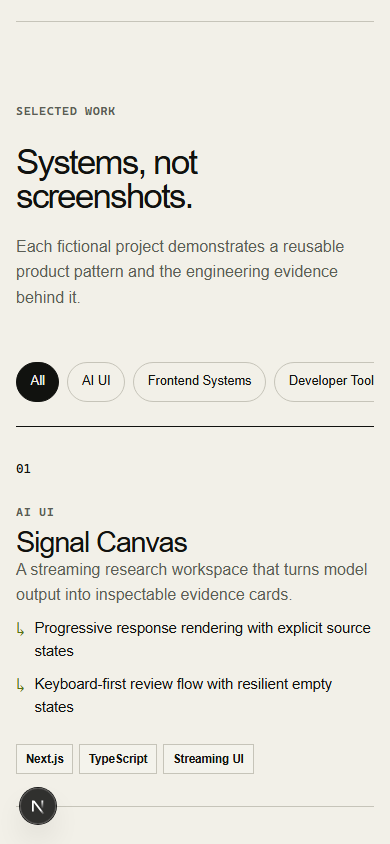
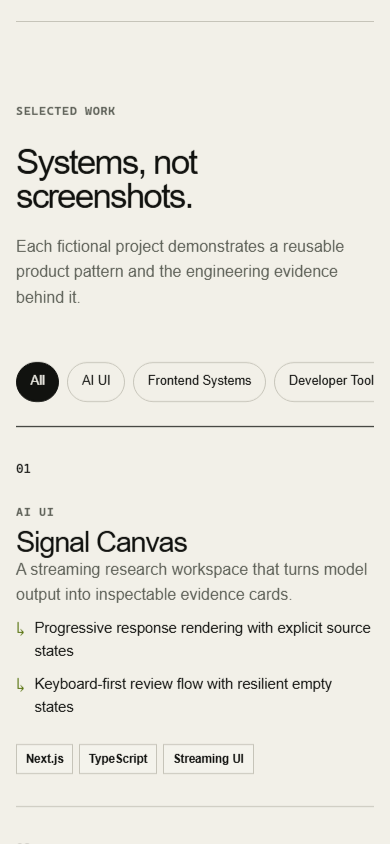
fix: enforce reusable content contract

diff --git a/tests/portfolio-schema.test.ts b/tests/portfolio-schema.test.ts
@@ -1,6 +1,9 @@
 import { describe, expect, it } from "vitest";
 import { demoContent } from "@/content/demo-content";
-import { validatePortfolioContent } from "@/lib/portfolio-schema";
+import {
+  assertValidPortfolioContent,
+  validatePortfolioContent,
+} from "@/lib/portfolio-schema";
 
 describe("validatePortfolioContent", () => {
   it("accepts the complete fictional demo content", () => {
@@ -12,6 +15,14 @@ describe("validatePortfolioContent", () => {
     expect(
       validatePortfolioContent({ ...demoContent, email: invalidEmail }),
     ).toContain("email must use example.com");
+  });
+
+  it("throws before composition when content is invalid", () => {
+    const invalidEmail = ["private", "example.net"].join("@");
+
+    expect(() =>
+      assertValidPortfolioContent({ ...demoContent, email: invalidEmail }),
+    ).toThrow("Portfolio content is invalid: email must use example.com");
   });
 
   it.each(["title", "summary", "stack", "category", "highlights"])(

diff --git a/tests/render.test.tsx b/tests/render.test.tsx
@@ -1,6 +1,7 @@
 import { fireEvent, render, screen } from "@testing-library/react";
 import { describe, expect, it } from "vitest";
 import Home from "@/app/page";
+import { SiteHeader } from "@/components/portfolio/site-header";
 
 describe("portfolio home", () => {
   it("renders the fictional profile with semantic project articles", () => {
@@ -36,5 +37,13 @@ describe("portfolio home", () => {
       expect(headingId).toBeTruthy();
       expect(container.querySelector(`#${headingId}`)).toBeInTheDocument();
     }
+  });
+
+  it("derives the wordmark from the configured display name", () => {
+    render(<SiteHeader displayName="Jordan Lee" />);
+
+    expect(screen.getByRole("link", { name: "Jordan Lee, home" })).toHaveTextContent(
+      "JL/PF",
+    );
   });
 });

diff --git a/components/portfolio/site-header.tsx b/components/portfolio/site-header.tsx
@@ -1,8 +1,15 @@
 export function SiteHeader({ displayName }: { displayName: string }) {
+  const initials = displayName
+    .trim()
+    .split(/\s+/)
+    .slice(0, 2)
+    .map((part) => part.at(0)?.toUpperCase())
+    .join("") || "PF";
+
   return (
     <header className="site-header">
       <a className="wordmark" href="#main-content" aria-label={`${displayName}, home`}>
-        AM<span aria-hidden="true">/</span>25
+        {initials}<span aria-hidden="true">/</span>PF
       </a>
       <nav aria-label="Primary navigation">
         <a href="#work">Work</a><a href="#about">About</a>

diff --git a/app/page.tsx b/app/page.tsx
@@ -6,6 +6,9 @@ import { ProjectGrid } from "@/components/portfolio/project-grid";
 import { SiteHeader } from "@/components/portfolio/site-header";
 import { Reveal } from "@/components/ui/reveal";
 import { demoContent } from "@/content/demo-content";
+import { assertValidPortfolioContent } from "@/lib/portfolio-schema";
+
+assertValidPortfolioContent(demoContent);
 
 export default function Home() {
   return (

diff --git a/lib/portfolio-schema.ts b/lib/portfolio-schema.ts
@@ -98,3 +98,12 @@ export function validatePortfolioContent(value: unknown): string[] {
 
   return errors;
 }
+
+export function assertValidPortfolioContent(
+  value: unknown,
+): asserts value is PortfolioContent {
+  const errors = validatePortfolioContent(value);
+  if (errors.length > 0) {
+    throw new Error(`Portfolio content is invalid: ${errors.join("; ")}`);
+  }
+}
